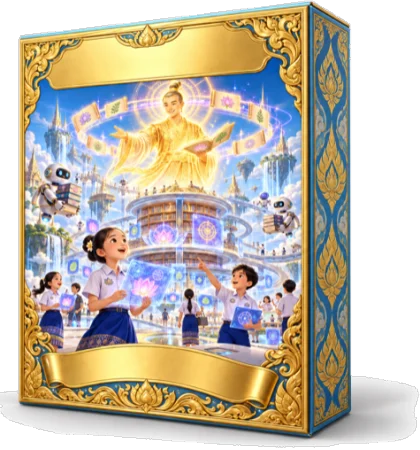
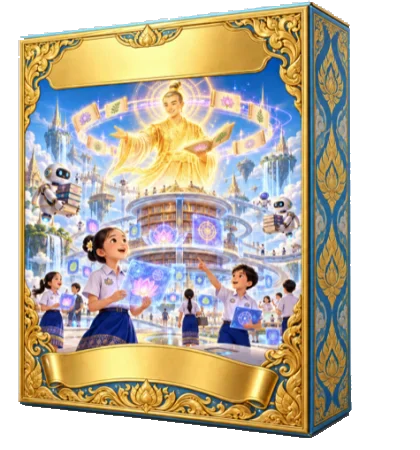
Deck boxes: white and grey floor shadow under the boxes removed; art cache bump

Changed region(s): [[0.0, 0.84, 1.0, 0.9956], [0.031, 0.0622, 0.0619, 0.0933]]

diff --git a/sw.js b/sw.js
@@ -2,7 +2,7 @@
 // Pages: network first, so a new version shows as soon as you are online; the cached copy is used offline.
 // Card art and fonts: cache first, filled as cards are seen (the 60+ MB of art is not downloaded up front).
 // Replacing an art file under the same name? Bump VERSION so players get the new picture.
-const VERSION = 'v6-cropped-cutouts';
+const VERSION = 'v7-clean-boxes';
 const SHELL = 'shell-' + VERSION, ART = 'art-' + VERSION, FONTS = 'fonts-' + VERSION;
 const PRECACHE = ['./', 'index.html', 'cards.html', 'manifest.webmanifest', 'icons/icon-192.png', 'icons/icon-512.png', 'art/logo.webp', 'art/back.jpg'];
 
